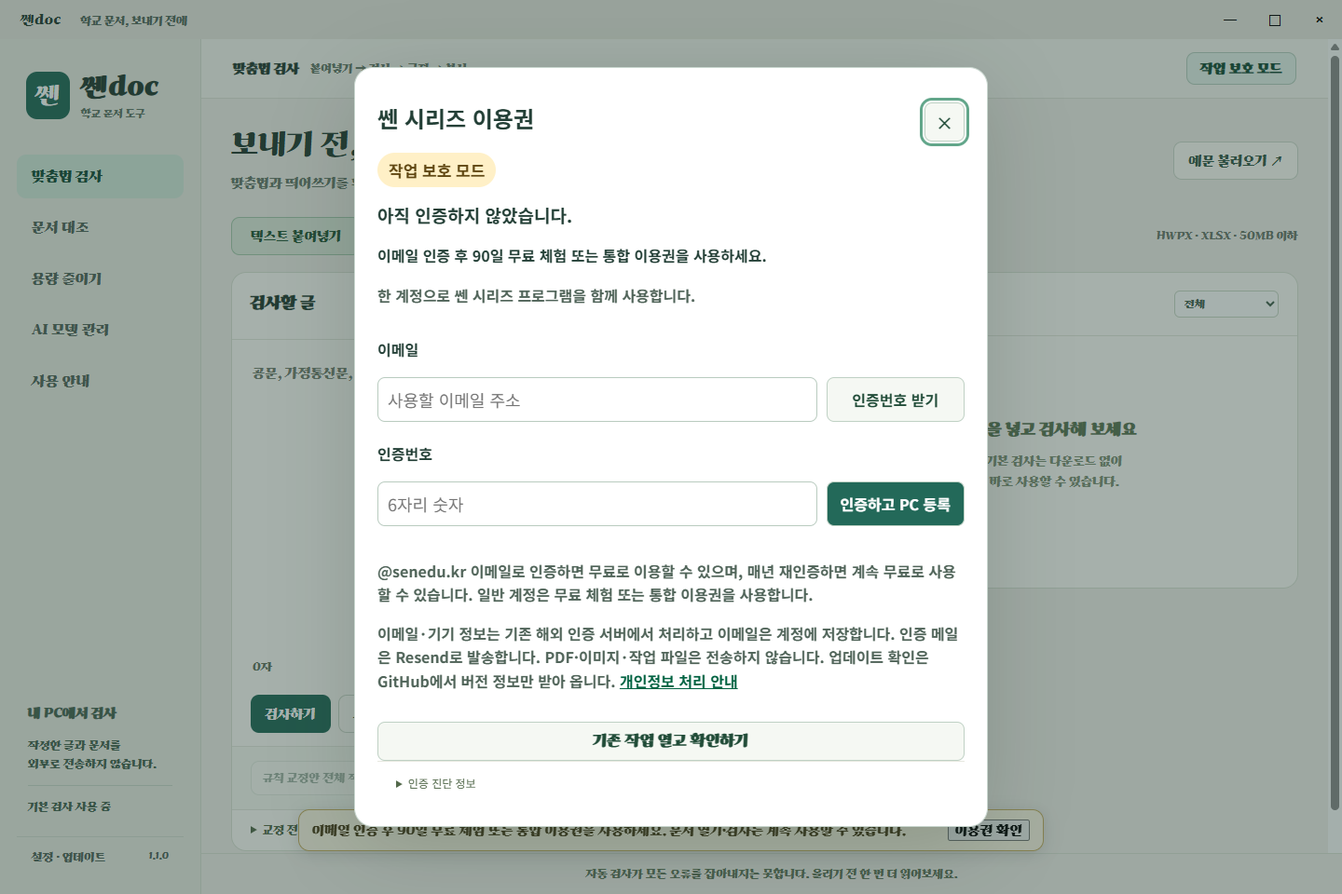
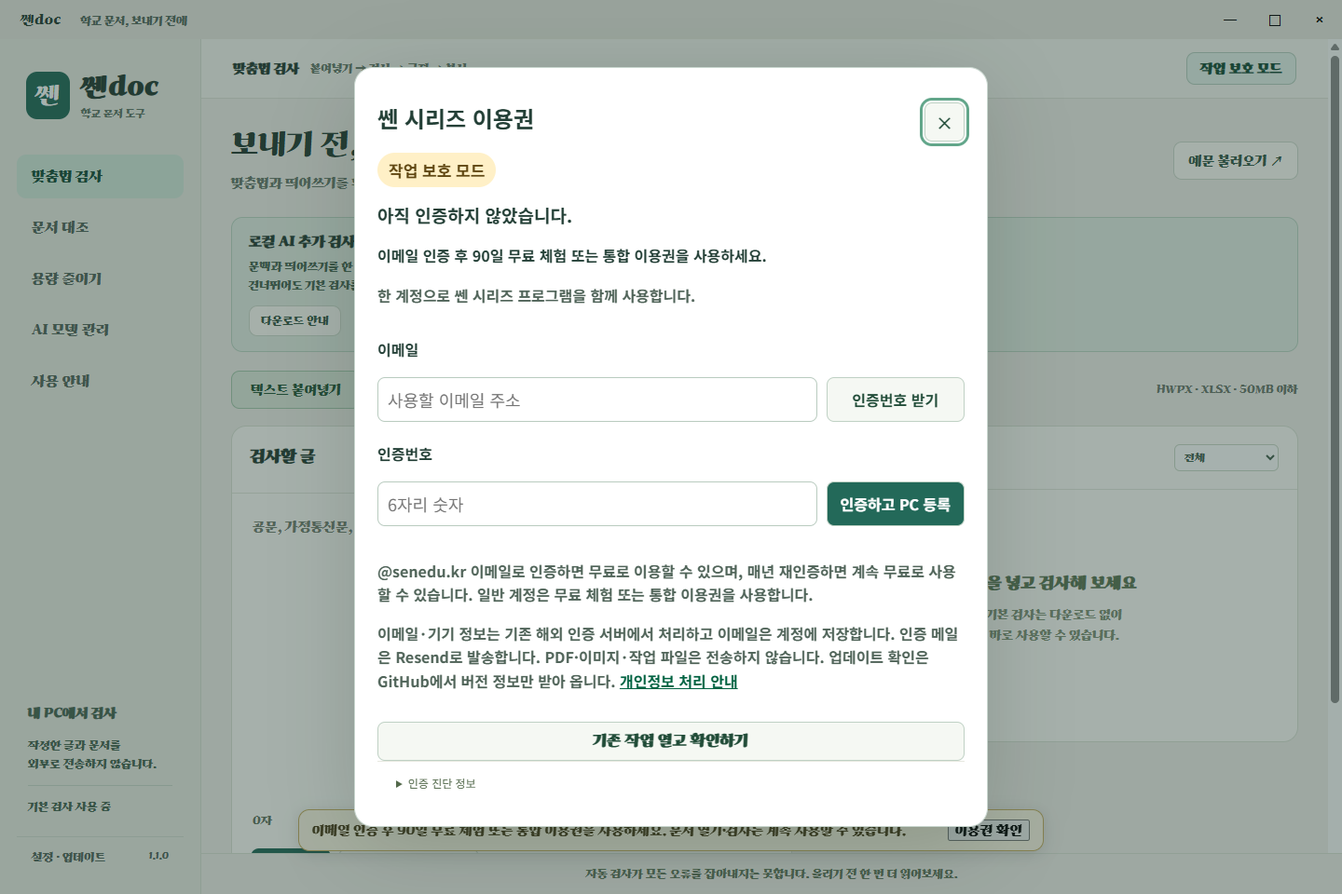
Show optional local AI recommendation without automatic downloads

diff --git a/app/styles.css b/app/styles.css
@@ -1,3 +1,4 @@
 @font-face{font-family:Ghana;src:url('../assets/Ghanachocolate.ttf')}:root{--rail-build:"d5d587015e21"}*{box-sizing:border-box}body{margin:0;background:#f2f0eb;color:#243b32;font:14px Ghana,'Malgun Gothic',sans-serif}button,input,select,textarea{font:inherit}button{cursor:pointer}button:disabled{opacity:.45;cursor:not-allowed}[hidden]{display:none!important}.titlebar{height:42px;display:flex;align-items:center;justify-content:space-between;padding-left:22px;background:#e9e8e1;-webkit-app-region:drag}.titlebar small{margin-left:18px;color:#55695d}.titlebar button{height:42px;width:48px;border:0;background:transparent;-webkit-app-region:no-drag}.titlebar button:hover{background:#dbe4dc}.shell{display:grid;grid-template-columns:216px 1fr;height:calc(100vh - 42px)}.sidebar{padding:30px 18px 18px;background:#ebece5;border-right:1px solid #d9dfd4;display:flex;flex-direction:column}.brand{display:flex;gap:12px;align-items:center;margin:5px 10px 38px}.brand-mark{background:#236959;color:#fff;border-radius:12px;padding:10px;font-size:25px}.brand strong{font-size:27px}.brand small{display:block;font-size:11px;color:#607468;margin-top:5px}nav{display:grid;gap:8px}.nav-item{text-align:left;background:none;border:0;border-radius:10px;padding:14px 16px;color:#53665b;font-size:15px}.nav-item:hover{background:#dfe7dd}.nav-item.active{background:#d4e9dc;color:#174d39}.privacy{margin-top:auto;padding:20px 12px;color:#476452;font-size:12px;line-height:1.8}.privacy strong{font-size:14px}.privacy span{display:block;border-top:1px solid #ccd7cc;padding-top:12px}.update{font-size:12px;border-top:1px solid #d6dcd2;border-radius:0}.update small{float:right}main{overflow:auto;min-width:0}.page-header{height:64px;display:flex;align-items:center;justify-content:space-between;padding:0 34px;border-bottom:1px solid #dfe2d9;background:#f7f6f1}.page-header span{font-size:12px;color:#68796c}.page{padding:30px 32px 16px;max-width:1800px;margin:auto}.heading{display:flex;justify-content:space-between;align-items:center;margin-bottom:24px}h1{font-size:31px;margin:0 0 12px;font-weight:400}h1 em{color:#237454;font-style:normal}h2{font-size:17px;margin:0}h3{font-size:14px}p{line-height:1.7}.heading p{margin:0;color:#68786c}.button{border:1px solid transparent;border-radius:9px;padding:11px 15px;white-space:nowrap}.primary{background:#236959;color:white}.primary:hover{background:#19533e}.secondary{background:#fffef9;border-color:#cfd9cd;color:#365847}.text-button{border:0;background:transparent;color:#2c7155;padding:8px}.button:active{transform:translateY(1px)}button:focus-visible,textarea:focus-visible,select:focus-visible{outline:3px solid #62a68a;outline-offset:2px}.input-tabs{display:flex;gap:6px;align-items:center;margin-bottom:18px}.input-tabs span{margin-left:auto;color:#6c786d;font-size:12px}.tab{border:1px solid #d2dacd;background:transparent;padding:11px 20px;border-radius:9px;color:#506852}.tab.active{background:#e0ebde;border-color:#a6c8ad;color:#245436}.editor-layout{display:grid;grid-template-columns:minmax(390px,1.15fr) minmax(320px,1fr);gap:20px;align-items:start}.editor-layout.document-mode{grid-template-columns:220px minmax(310px,1.2fr) minmax(250px,1fr);gap:14px}.panel{background:#fffefa;border:1px solid #dce2d6;border-radius:16px;overflow:hidden}.panel-head{display:flex;align-items:center;justify-content:space-between;gap:8px;padding:19px 20px;border-bottom:1px solid #e5e7de}.panel-head select{font-size:11px;padding:6px;border:1px solid #ccd8c8;border-radius:6px;color:#45604e;background:#fff}.panel-head small{display:block;margin-top:6px;color:#62785d;font-size:11px}#text-input{display:block;width:100%;min-height:290px;height:35vh;resize:vertical;padding:22px;border:0;background:transparent;line-height:1.95;color:#203e30;font-family:Ghana,'Malgun Gothic',sans-serif;font-size:16px}#text-input::placeholder{color:#748071;font-size:14px}#text-input[readonly]{background:#f1f2ec}.editor-meta{display:flex;justify-content:space-between;padding:8px 22px;color:#64735f;font-size:12px}.actions{display:flex;flex-wrap:wrap;gap:8px;padding:14px 20px}.output-actions{display:flex;flex-wrap:wrap;gap:8px;padding:15px 20px;border-top:1px solid #e6e8df;background:#f8faf3}.output-actions .button{font-size:12px;padding:10px 12px}.small{font-size:12px}.muted{color:#62715e}#edit-hint{padding:0 20px}.empty{padding:90px 24px;text-align:center;color:#819177}.empty strong{font-size:17px;color:#5b7554}.empty p{font-size:13px}#issues{max-height:48vh;overflow:auto;min-height:230px}.issue{width:100%;border:0;border-bottom:1px solid #e6eadd;background:transparent;padding:15px 20px;text-align:left;color:#2d4d37}.issue:hover,.issue.selected{background:#edf4e8}.issue .badge{display:inline-block;font-size:10px;padding:4px 7px;border-radius:5px;background:#e6efda;color:#466033;margin-bottom:9px}.issue.ai .badge{background:#dcebf0;color:#345e69}.issue.dictionary .badge,.issue.context .badge{background:#f2ecdb;color:#765f29}.issue strong{display:block;font-size:15px;font-weight:400}.issue del{color:#977244;margin-right:6px}.issue small{display:block;font-size:11px;color:#697b60;margin-top:6px}#issue-detail{padding:20px;background:#edf3e5;border-top:1px solid #cbd9c0;line-height:1.8}#issue-detail p{font-size:13px}#issue-detail .actions{padding:8px 0}.suggestion{border:1px solid #91b583;background:white;border-radius:7px;padding:8px 12px;color:#38682b;margin:5px}footer{padding:22px 0 5px;font-size:12px;color:#62745b;text-align:center}#notice{padding:13px 18px;background:#e7eedf;border-radius:9px;margin-bottom:16px;white-space:pre-wrap;line-height:1.7}details{padding:14px 20px;border-top:1px solid #e6e8df}summary{cursor:pointer;color:#53694b;font-size:12px}.comparison{display:grid;grid-template-columns:1fr 1fr;gap:16px}.comparison pre{white-space:pre-wrap;word-break:break-word;font:13px/1.8 Ghana,'Malgun Gothic',sans-serif;color:#65735c}#highlights{padding:15px 22px;white-space:pre-wrap;line-height:1.9;border-top:1px solid #e0e6d8;max-height:160px;overflow:auto;font-size:13px}mark{background:#f6e3b4;color:#473d26;border-bottom:2px solid #ad822e}dialog{border:1px solid #cbd8c3;border-radius:18px;background:#fffef9;color:#2e4932;padding:30px;width:min(650px,90vw);max-height:88vh;box-shadow:0 20px 90px #23392733}dialog::backdrop{background:#1c352c70}dialog h2{font-size:23px;margin:12px 0 20px}dialog>p{font-size:14px;line-height:1.8}.dialog-close{position:absolute;right:17px;top:12px;background:none;border:0;font-size:24px;color:#64735f}.eyebrow{font-size:11px;color:#557a45}.model-points{list-style:none;margin:0 0 6px;padding:0;display:grid;gap:8px}.model-points li{display:grid;grid-template-columns:92px 1fr;gap:8px;padding:10px 14px;border-radius:10px;background:#edf4e8;font-size:13px;line-height:1.7;color:#3d5444}.model-points strong{color:#236959}.model-option{display:block;padding:16px;border:1px solid #cbd9c1;border-radius:10px;margin:10px 0;line-height:1.7}.model-option:has(input:checked){background:#e9f2e0}.model-option small{display:block;margin-left:24px;color:#6e7b65;font-size:12px}progress{width:100%;height:12px;accent-color:#35784b}.danger-zone{margin-top:18px;border-top:1px solid #dce1d4;padding-top:12px;font-size:12px}.danger{background:#fff4eb;color:#8b3e2c;border-color:#d2ac91}#model-path{word-break:break-all}.sr-only{position:absolute;width:1px;height:1px;overflow:hidden;clip:rect(0,0,0,0)}#document-panel>.small{padding:0 16px}#document-panel>.button{margin:15px;width:calc(100% - 30px)}#document-name{font-size:12px;word-break:break-all}#document-blocks{max-height:53vh;overflow:auto}.doc-block{display:block;width:100%;border:0;border-bottom:1px solid #e3e8d8;padding:12px;text-align:left;background:none;color:#45643a}.doc-block.active{background:#e4eedb}.doc-block small{display:block;color:#627457;font-size:10px;margin-bottom:6px}.doc-block span{display:-webkit-box;-webkit-line-clamp:2;-webkit-box-orient:vertical;overflow:hidden;line-height:1.6;font-size:12px}.doc-block b{display:inline-block;font-size:10px;color:#975b22;margin-top:7px}.app-copy{margin:18px 0 0;font-size:12px;color:#52675d}.license-link{border:0;background:none;padding:0;font-size:12px;color:#236959;text-decoration:underline;text-underline-offset:3px}.license-text{white-space:pre-wrap;word-break:break-word;max-height:260px;overflow:auto;margin:14px 0 0;padding:14px;border:1px solid #dce1d4;border-radius:8px;background:#f8faf3;font:12px/1.75 Ghana,'Malgun Gothic',sans-serif;color:#3d5444}#guide-dialog li{line-height:1.9;margin:10px 0}@media(max-width:1250px){.page{padding:24px 20px}.shell{grid-template-columns:185px 1fr}.sidebar{padding-left:12px;padding-right:12px}.editor-layout.document-mode{grid-template-columns:175px minmax(300px,1fr)}.document-mode .issues-panel{grid-column:2}.document-mode #document-panel{grid-row:span 2}}
 
 main{padding-bottom:46px}footer{position:fixed;bottom:0;left:216px;right:0;z-index:2;background:#f2f0eb;border-top:1px solid #dce2d6;padding:14px 12px}@media(max-width:1250px){footer{left:185px}}
+.ai-recommendation{margin-bottom:20px;padding:16px 18px;border:1px solid #bcd5c5;border-radius:12px;background:#e5efe6}.ai-recommendation h2{font-size:15px}.ai-recommendation h2 small{margin-left:8px;font-size:11px;color:#536b5e}.ai-recommendation p{margin:8px 0 0;font-size:12px;color:#486452}.ai-recommendation .actions{padding:10px 0 0}.ai-recommendation .button{padding:8px 12px;font-size:12px}

diff --git a/app/renderer.js b/app/renderer.js
@@ -3,7 +3,7 @@ import {startAuth} from './auth-setup.mjs';
 'use strict';
 (()=>{
 const $=id=>document.getElementById(id),api=window.doc,esc=s=>String(s??'').replace(/[&<>"']/g,c=>({'&':'&amp;','<':'&lt;','>':'&gt;','"':'&quot;',"'":'&#39;'}[c]));
-let issues=[],selected=null,busy=false,model=null,settings={},before='',undo=[],doc=null,block=null,lastBlock=0,edits=new Map(),mode='text',pasteText='',savedEdits=new Map();
+let issues=[],selected=null,busy=false,model=null,settings={aiNoticeSeen:true},before='',undo=[],doc=null,block=null,lastBlock=0,edits=new Map(),mode='text',pasteText='',savedEdits=new Map();
 const checked=r=>{if(r?.error)throw Error(r.error);return r;};
 function notice(message){$('notice').textContent=message||'';$('notice').hidden=!message;}
 const action=fn=>async(...args)=>{try{await fn(...args);}catch(e){notice(e.message);}};
@@ -44,9 +44,12 @@ $('mode-document').onclick=action(async()=>{if(doc){documentMode();await selectB
 function renderBlocks(){if(!doc)return;$('document-blocks').innerHTML=doc.blocks.map((b,n)=>`<button class="doc-block ${block===n?'active':''}" data-block="${n}" ${busy?'disabled':''}><small>${esc(b.location)}</small><span>${esc(edits.get(n)??b.text)}</span>${edits.has(n)?`<b>${savedEdits.get(n)===edits.get(n)?'교정본에 저장됨':'수정됨 · 저장 전'}</b>`:b.issues.length?`<b>확인 ${b.issues.length}개</b>`:''}</button>`).join('');$('document-blocks').querySelectorAll('[data-block]').forEach(b=>b.onclick=action(()=>selectBlock(Number(b.dataset.block))));}
 async function selectBlock(index){if(busy)return;setBusy(true);try{const r=checked(await api.prepareBlock(index));block=index;lastBlock=index;doc.blocks[index].editable=r.editable;doc.blocks[index].editOriginal=r.text;setText(edits.get(index)??r.text);before=r.text;$('before').textContent=before;$('block-location').textContent=doc.blocks[index].location;$('edit-hint').hidden=false;$('edit-hint').textContent=r.hint;}finally{setBusy(false);}renderBlocks();await inspect();}
 $('save-document').onclick=action(async()=>{if(!requireEdit())return;setBusy(true);try{const r=checked(await api.saveDocument([...edits].map(([index,text])=>({index,text}))));if(r.ok){savedEdits=new Map(edits);renderBlocks();notice(`교정본을 저장했습니다: ${r.path}${r.recalculate?'\n엑셀에서 열어 수식을 다시 계산하세요.':''}${r.stalePreview?'\n한글에서 열어 미리보기를 갱신하세요.':''}\n원본은 그대로 보존했습니다.`);}}finally{setBusy(false);}});
-async function openModels(){renderModel(checked(await api.modelInfo()));if(!$('model-dialog').open)$('model-dialog').showModal();}
+async function dismissRecommendation(){if(!settings.aiNoticeSeen)settings=checked(await api.saveSettings({aiNoticeSeen:true}));$('ai-recommendation').hidden=true;}
+async function openModels(){await dismissRecommendation();renderModel(checked(await api.modelInfo()));if(!$('model-dialog').open)$('model-dialog').showModal();}
+$('ai-recommendation-open').onclick=action(openModels);$('ai-recommendation-skip').onclick=action(dismissRecommendation);
 const mb=n=>`${(n/1024**2).toFixed(1)}MB`;
 function renderModel(info){model=info;const working=['downloading','verifying','importing'].includes(info.phase);$('model-badge').textContent=info.installed?'로컬 AI 준비됨':'기본 검사 사용 중';$('ai-scan').disabled=busy;$('ai-scan').textContent=info.installed?'AI로 추가 검사':'AI 검사 켜기 (선택)';
+ $('ai-recommendation').hidden=Boolean(info.installed)||settings.aiNoticeSeen;
  if(!$('model-options').children.length)$('model-options').innerHTML=info.models.filter(m=>m.enabled).map(m=>`<label class="model-option"><input type="radio" name="model" value="${m.id}" ${m.id===info.recommended?'checked':''}> ${esc(m.name)}<small>약 400MB · CPU에서 실행</small></label>`).join('');
  $('memory-info').textContent=`이 PC의 메모리: ${info.memoryGB}GB · 검사 속도는 PC 성능에 따라 달라집니다.`;$('model-status').textContent=info.message;$('model-progress').value=info.percent||0;$('download-details').textContent=info.total?`${mb(info.received)} / ${mb(info.total)} · 남은 용량 ${mb(Math.max(0,info.total-info.received))}${info.eta?` · 약 ${Math.ceil(info.eta/60)}분 남음`:''}`:'';
  $('model-path').textContent=info.installed?`저장 위치: ${info.installed.path}`:'';$('model-download').disabled=working||Boolean(info.installed)||busy;$('model-download').textContent=info.phase==='paused'?'다운로드 재개':info.phase==='error'?'다운로드 재시도':'AI 모델 다운로드';$('model-pause').hidden=info.phase!=='downloading';$('model-import').disabled=working||busy;$('model-delete').disabled=working||busy||(!info.installed&&!['paused','error'].includes(info.phase));document.querySelector('#model-dialog .danger-zone').hidden=!info.installed&&!['paused','error'].includes(info.phase);

diff --git a/app/index.html b/app/index.html
@@ -3,6 +3,7 @@
 <div class="titlebar"><span>쎈doc <small>학교 문서, 보내기 전에</small></span><div><button id="minimize" aria-label="창 최소화">─</button><button id="maximize" aria-label="창 최대화">□</button><button id="close" aria-label="창 닫기">×</button></div></div>
 <div class="shell"><aside class="sidebar"><div class="brand"><span class="brand-mark">쎈</span><div><strong>쎈doc</strong><small>학교 문서 도구</small></div></div><nav aria-label="주요 기능"><button class="nav-item active" data-route="spell">맞춤법 검사</button><button class="nav-item" data-route="review">문서 대조</button><button class="nav-item" data-route="lite">용량 줄이기</button><button class="nav-item" id="open-models">AI 모델 관리</button><button class="nav-item" id="open-guide">사용 안내</button></nav><div class="privacy"><strong>내 PC에서 검사</strong><p>작성한 글과 문서를<br>외부로 전송하지 않습니다.</p><span id="model-badge">기본 검사 사용 중</span></div><button class="nav-item update" id="open-update">설정 · 업데이트 <small id="app-version"></small></button></aside>
 <main><header class="page-header"><b>맞춤법 검사</b><span>붙여넣기 → 검사 → 교정 → 복사</span></header><section class="page"><div class="heading"><div><h1>보내기 전, <em>한 번 더</em></h1><p>맞춤법과 띄어쓰기를 확인하고 수정한 글을 저장하세요.</p></div><button class="button secondary" id="sample">예문 불러오기 ↗</button></div>
+<section id="ai-recommendation" class="ai-recommendation" aria-labelledby="ai-recommendation-title" hidden><div><h2 id="ai-recommendation-title">로컬 AI 추가 검사를 추천해요 <small>선택 사항</small></h2><p>문맥과 띄어쓰기를 한 번 더 살펴보세요. Qwen 모델은 원할 때만 약 400MB를 내려받고, 이후 이 PC에서 실행합니다.<br>건너뛰어도 기본 검사를 바로 사용할 수 있습니다.</p></div><div class="actions"><button class="button secondary" id="ai-recommendation-open">다운로드 안내</button><button class="text-button" id="ai-recommendation-skip">지금은 건너뛰기</button></div></section>
 <div class="input-tabs" role="group" aria-label="입력 방식"><button class="tab active" id="mode-text">텍스트 붙여넣기</button><button class="tab" id="mode-document">문서 불러오기</button><span>HWPX · XLSX · 50MB 이하</span></div>
 <div id="notice" role="status" aria-live="polite" hidden></div>
 <div class="editor-layout"><aside id="document-panel" class="panel" hidden><div class="panel-head"><h2 id="document-name">문서</h2><button class="text-button" id="open-document">다른 문서</button></div><p class="small muted">문단·셀을 선택해 교정하세요. 수정한 부분은 한꺼번에 사본으로 저장됩니다.</p><div id="document-blocks"></div><button class="button primary" id="save-document" disabled>교정본 저장</button><p id="document-warning" class="small muted"></p></aside>

diff --git a/docs/UPDATE-VERIFICATION.md b/docs/UPDATE-VERIFICATION.md
@@ -9,18 +9,18 @@
 | 단위 회귀 | `npm test` 591개 통과. 키트 17개, 서버 앱 이름 `ssen-doc`, 13개 명령 제한, 보호 IPC·진단·키트 파일 해시 포함. |
 | 인증 보호 | 보호된 메인 IPC 15개를 직접 불러 모두 거부됨을 확인. 저장 대화상자·클립보드·파일 변경이 발생하지 않음. 모의 로그아웃 후 authorize 캐시 무효화 및 세 화면 상태 전파 확인. |
 | 네트워크 | 인증은 키트 원본 Electron `net.fetch`. Chromium 응답·헤더·리다이렉트 거부·오류 진단 시험 통과. 렌더러 전용 session의 요청은 차단되면서 메인 Chromium 요청은 성공함을 실제 localhost 시험으로 확인. |
-| 선택형 AI | 처음 실행하거나 기본 검사를 해도 모델 안내창을 자동으로 열지 않음. ‘AI 검사 켜기 (선택)’ → 안내 → 다운로드 선택의 순서. 안내에서 건너뛰고 화면을 다시 열어도 다운로드 호출 0회, 모델 상태 idle인 것을 확인. |
+| 선택형 AI | 첫 화면에 선택형 추천과 ‘다운로드 안내 / 지금은 건너뛰기’를 표시하며 검사 화면을 가리지 않음. 안내를 열어도 다운로드 버튼을 직접 누르기 전에는 받지 않음. 추천을 건너뛰면 다음 실행부터 숨기고, 나중에 ‘AI 검사 켜기 (선택)’로 다시 안내를 열 수 있음. 기본 검사·건너뛰기·새로고침·나중에 안내 열기까지 다운로드 호출 0회를 확인. |
 | 다운로드 환경 | 업무망에서는 기존 모델 다운로드 경로에 `self signed certificate in certificate chain` 오류가 발생함. 사용자가 Wi-Fi로 전환한 후 같은 배포 코드로 정상 다운로드됨. TLS 검증을 끄지 않음. 업무망 문제 자체를 해결했다고 판정하지 않으며, 다른 망에서 받아 GGUF 직접 지정도 가능. |
 | 실제 Qwen 모델 | Wi-Fi에서 396,705,472바이트 다운로드·중단·재개·SHA-256 검증, CPU 추론, 삭제·재다운로드·실제 GGUF 직접 지정 통과. `MODEL-LIFECYCLE-PACKAGED.json`. 인증만 외부 테스트 fixture로 모의 처리했으며 모델 다운로드·추론·파일 작업은 실제 수행. |
 | CPU 추론 별도 회귀 | `npm run test:ai` 합성 문장 3개, 경고 0. ‘됬어요’·‘할수있어요’ 교정 제안, 정상 문장 유지. 실제 응답은 실행마다 달라지며 정확도를 보장하지 않음. |
 | 설치·업데이트 | NSIS 실제 설치·실행·삭제, 설치 약관 포함, 설치판 업데이트 경로 판별 및 GitHub 버전 조회 확인. 실제 공개된 1.1.0으로 자동 업데이트·재시작하는 단계는 게시 후 확인해야 함. |
 | 키트·네이티브 번들 | `app/auth/` 6개 파일 원본 SHA-256 유지. 테스트 fixture 미포함, CPU용 win-x64 네이티브 모듈만 포함, GGUF 모델 미포함. `PACKAGE-VERIFICATION.json`. |
 
-최종 `app.asar`에 대해 UI 12개 모두 통과했다. 맞춤법·띄어쓰기·HWPX·XLSX 교정·문서 대조·실제 압축·모델 파일 관리·인증 제한과 AI 선택 흐름을 포함하며 화면 오류는 0개다. 실제 배포 EXE에서도 AI 안내창이 자동으로 열리지 않고 모델 상태가 idle인 것을 확인했다.
+첫 화면 추천을 반영한 최종 `app.asar`에 대해 UI 13개 모두 통과했다. 맞춤법·띄어쓰기·HWPX·XLSX 교정·문서 대조·실제 압축·모델 파일 관리·인증 제한과 AI 선택 흐름을 포함하며 화면 오류는 0개다. 실제 배포 EXE에서도 첫 추천이 표시되며 AI 안내창이 자동으로 열리지 않고 모델 상태가 idle인 것을 확인했다. 추천을 건너뛴 선택은 저장되고, 기본 검사는 계속 사용할 수 있다. 이 추가 수정은 추천 화면·설정 저장 연결에 한정되며 인증·다운로드·추론·설치 구성은 앞서 검증한 그대로다.
 
-최종 빌드는 `release/1.1.0-final/`에 있다. Electron 임시 압축 해제 경로의 잠금으로 기본 빌드가 실패한 뒤, 설치된 동일 Electron 44.7.0을 `--config.electronDist=node_modules/electron/dist`로 지정하여 NSIS·ZIP 빌드에 성공했다. 원본과 패키지의 앱 파일 87개가 일치한다. 설치 파일 184,490,560바이트, ZIP 228,534,064바이트. SHA-256 및 검사 시각은 `PACKAGE-VERIFICATION.json`에 기록했다.
+최종 빌드 위치는 `release/1.1.0-recommended/`다. 설치된 동일 Electron 44.7.0을 `--config.electronDist=node_modules/electron/dist`로 지정한다. 산출물 크기·SHA-256·원본과 패키지의 파일 일치 여부 및 검사 시각은 `PACKAGE-VERIFICATION.json`에 기록한다. 이전 `release/1.1.0-final/`은 첫 화면 추천을 추가하기 전 빌드이므로 배포하지 않는다.
 
-[통합 범위](AUTH-INTEGRATION.md), [이용권 화면](ui-auth.png), [작업 보호 모드](ui-auth-protected.png), [선택형 AI 안내](ui-ai-optional.png), [릴리즈 설명 초안](RELEASE-1.1.0.md).
+[통합 범위](AUTH-INTEGRATION.md), [이용권 화면](ui-auth.png), [작업 보호 모드](ui-auth-protected.png), [첫 화면 AI 추천](ui-ai-recommendation.png), [선택형 AI 안내](ui-ai-optional.png), [릴리즈 설명 초안](RELEASE-1.1.0.md).
 
 **게시 전 남은 확인:** 인증 서버의 `ssen-doc` 등록과 토큰 scope `doc` 지원 여부. 실제 OTP 수신·교육용 자격 승인·다른 앱의 기존 PC 인증 재사용·학교망 프록시 환경·다른 앱으로 로그아웃 반영은 실제 계정 환경에서 확인해야 한다. 모의 시험과 구분하며, 서버 지원을 확인하기 전에는 공개 릴리즈를 게시하지 않는다.
 

diff --git a/README.md b/README.md
@@ -26,7 +26,7 @@ Windows 10/11 x64에서 설치형 `SsenDoc-Setup-1.1.0.exe`를 실행하거나, 
 
 AI 맞춤법 검사는 최초 1회 모델 다운로드(약 400MB)가 필요합니다. 규칙 기반 검사는 다운로드 없이 바로 사용 가능합니다.
 
-**AI 검사 켜기 (선택)** 또는 AI 모델 관리를 누를 때만 다운로드 안내를 표시합니다. 앱 실행·기본 검사만으로는 모델을 받지 않습니다. 모델 자체는 무료이며 선택 사항입니다. **건너뛰기**를 눌러 기본 검사만 사용할 수 있습니다. AI 모델 관리에서 다운로드·일시정지·재개·재시도·삭제·GGUF 파일 직접 지정을 할 수 있습니다. 다운로드·직접 지정·삭제에는 앱 이용권이 필요합니다. 이미 설치한 모델의 추가 검사는 인증 없이도 가능합니다. 다운로드한 파일은 SHA-256으로 검증합니다. 앱 데이터 폴더의 `models/`에 저장되며, 직접 지정한 파일도 복사해서 사용합니다. 모델 삭제 시 직접 지정한 원본 파일은 보존합니다.
+첫 화면에서 로컬 AI를 **선택 사항으로 추천**합니다. **다운로드 안내**, **AI 검사 켜기 (선택)** 또는 AI 모델 관리를 눌러 안내를 확인한 다음, **AI 모델 다운로드**를 직접 선택해야 받습니다. 앱 실행·기본 검사만으로는 모델을 받지 않습니다. **지금은 건너뛰기**를 누르면 다음 실행부터 추천을 숨기고 기본 검사를 계속 사용할 수 있습니다. 나중에 AI 모델 관리에서 다운로드·일시정지·재개·재시도·삭제·GGUF 파일 직접 지정을 할 수 있습니다. 모델 자체는 무료이며 선택 사항입니다. 다운로드·직접 지정·삭제에는 앱 이용권이 필요합니다. 이미 설치한 모델의 추가 검사는 인증 없이도 가능합니다. 다운로드한 파일은 SHA-256으로 검증합니다. 앱 데이터 폴더의 `models/`에 저장되며, 직접 지정한 파일도 복사해서 사용합니다. 모델 삭제 시 직접 지정한 원본 파일은 보존합니다.
 
 기본 모델은 Qwen3 0.6B Q4_K_M(396,705,472바이트, Apache-2.0)입니다. CPU로 실행하며, AI 결과는 사용자가 항목별로 적용해야 합니다. 앱에서 제공하는 AI 모델은 Qwen 한 가지입니다. 모델은 설치 파일에 포함하지 않습니다.
 

diff --git a/docs/RELEASE-1.1.0.md b/docs/RELEASE-1.1.0.md
@@ -25,6 +25,8 @@
 
 ![문서 열기와 검사는 가능한 작업 보호 모드](https://raw.githubusercontent.com/HooniKims/ssen-doc/v1.1.0/docs/ui-auth-protected.png)
 
+![첫 화면의 선택형 로컬 AI 추천과 건너뛰기](https://raw.githubusercontent.com/HooniKims/ssen-doc/v1.1.0/docs/ui-ai-recommendation.png)
+
 ![직접 선택한 경우에만 여는 AI 안내와 건너뛰기](https://raw.githubusercontent.com/HooniKims/ssen-doc/v1.1.0/docs/ui-ai-optional.png)
 
 ## 설치와 로컬 AI
@@ -34,7 +36,7 @@
 - Windows 10/11 x64. 기존 설치 식별자와 실행 파일 이름을 유지합니다.
 - AI 맞춤법 검사는 최초 1회 모델 다운로드(약 400MB)가 필요합니다. 규칙 기반 검사는 다운로드 없이 바로 사용 가능합니다.
 - Qwen3 0.6B Q4_K_M 한 가지만 제공합니다. 모델 파일은 설치 파일에 포함하지 않습니다. AI 제안은 하나씩 확인하고 적용하세요.
-- AI 안내창은 자동으로 뜨지 않습니다. **AI 검사 켜기 (선택)**를 누른 뒤 **AI 모델 다운로드**를 선택해야 받습니다. 건너뛰고 기본 검사만 사용할 수 있습니다.
+- 첫 화면에서 로컬 AI를 선택 사항으로 추천합니다. **다운로드 안내**를 눌러 내용을 확인한 뒤 **AI 모델 다운로드**를 직접 선택해야 받습니다. **지금은 건너뛰기**를 누르면 추천을 숨기며, 기본 검사를 계속 쓸 수 있습니다. 나중에 **AI 검사 켜기 (선택)** 또는 AI 모델 관리에서 받을 수 있습니다.
 - 코드 서명이 없어 SmartScreen 안내가 나타날 수 있습니다. 공식 출처와 첨부 SHA-256을 확인하세요.
 
 ## 확인할 점

diff --git a/RELEASING.md b/RELEASING.md
@@ -4,7 +4,7 @@
 
 `npm run dist`는 인증용 Electron Chromium 네트워크 시험을 먼저 실행합니다. 빌드한 `app.asar`를 `SSENDOC_AUTH_APP_ROOT`로 지정해 `npm run test:ui`도 실행하세요. 테스트 fixture는 설치 파일에 포함되지 않습니다. 실제 공통 계정으로 OTP·PC 등록·교육용 인증·학교망 접속은 별도 확인합니다. 자세한 범위는 `docs/AUTH-INTEGRATION.md`를 참고하세요.
 
-1.1.0 최종 산출물은 `release/1.1.0-final/`에 있습니다. 이 PC에서 Electron 압축 해제 임시 폴더가 잠기는 문제가 발생해, 같은 버전의 설치된 런타임을 사용하여 `npm run dist -- --config.directories.output=release/1.1.0-final --config.electronDist=node_modules/electron/dist`로 빌드했습니다. 검증 스크립트에는 `SSENDOC_RELEASE_DIR=release/1.1.0-final`을 지정합니다. 이전 `release/1.1.0/` 시험 파일은 게시하지 않습니다.
+1.1.0 최종 산출물은 `release/1.1.0-recommended/`에 있습니다. 첫 화면의 선택형 AI 추천과 건너뛰기를 반영한 빌드입니다. 이 PC에서 Electron 압축 해제 임시 폴더가 잠기는 문제가 발생해, 같은 버전의 설치된 런타임을 사용하여 `npm run dist -- --config.directories.output=release/1.1.0-recommended --config.electronDist=node_modules/electron/dist`로 빌드합니다. 검증 스크립트에는 `SSENDOC_RELEASE_DIR=release/1.1.0-recommended`를 지정합니다. 이전 `release/1.1.0/`, `release/1.1.0-final/` 시험 파일은 게시하지 않습니다.
 
 공통 인증 릴리즈 문구:
 

diff --git a/CHANGELOG.md b/CHANGELOG.md
@@ -2,7 +2,7 @@
 
 ## 1.1.0 — 공통 인증 통합 (게시 전 검증)
 
-- 로컬 AI는 사용자가 ‘AI 검사 켜기 (선택)’를 누르고 다운로드를 선택한 경우에만 준비합니다. 실행 직후 AI 안내창을 자동으로 띄우지 않습니다. 기본 검사는 AI 없이 사용할 수 있습니다.
+- 첫 화면에서 로컬 AI를 선택 사항으로 추천합니다. ‘다운로드 안내’ 또는 ‘AI 검사 켜기 (선택)’를 눌러 안내를 확인하고 다운로드를 선택한 경우에만 받습니다. ‘지금은 건너뛰기’를 누르면 다음 실행부터 추천을 숨깁니다. 기본 검사는 AI 없이 사용할 수 있습니다.
 
 - 쎈 시리즈 공통 계정으로 로그인합니다. 센스쿨(@senedu.kr) 이메일이면 무료입니다. 이미 다른 쎈 앱에서 인증했다면 따로 할 일이 없습니다.
 - 이메일 인증번호, 교육용 연간 재인증, 90일 체험, 이용권 코드, PC 관리와 인증 진단 화면을 세 기능에 연결했습니다.
